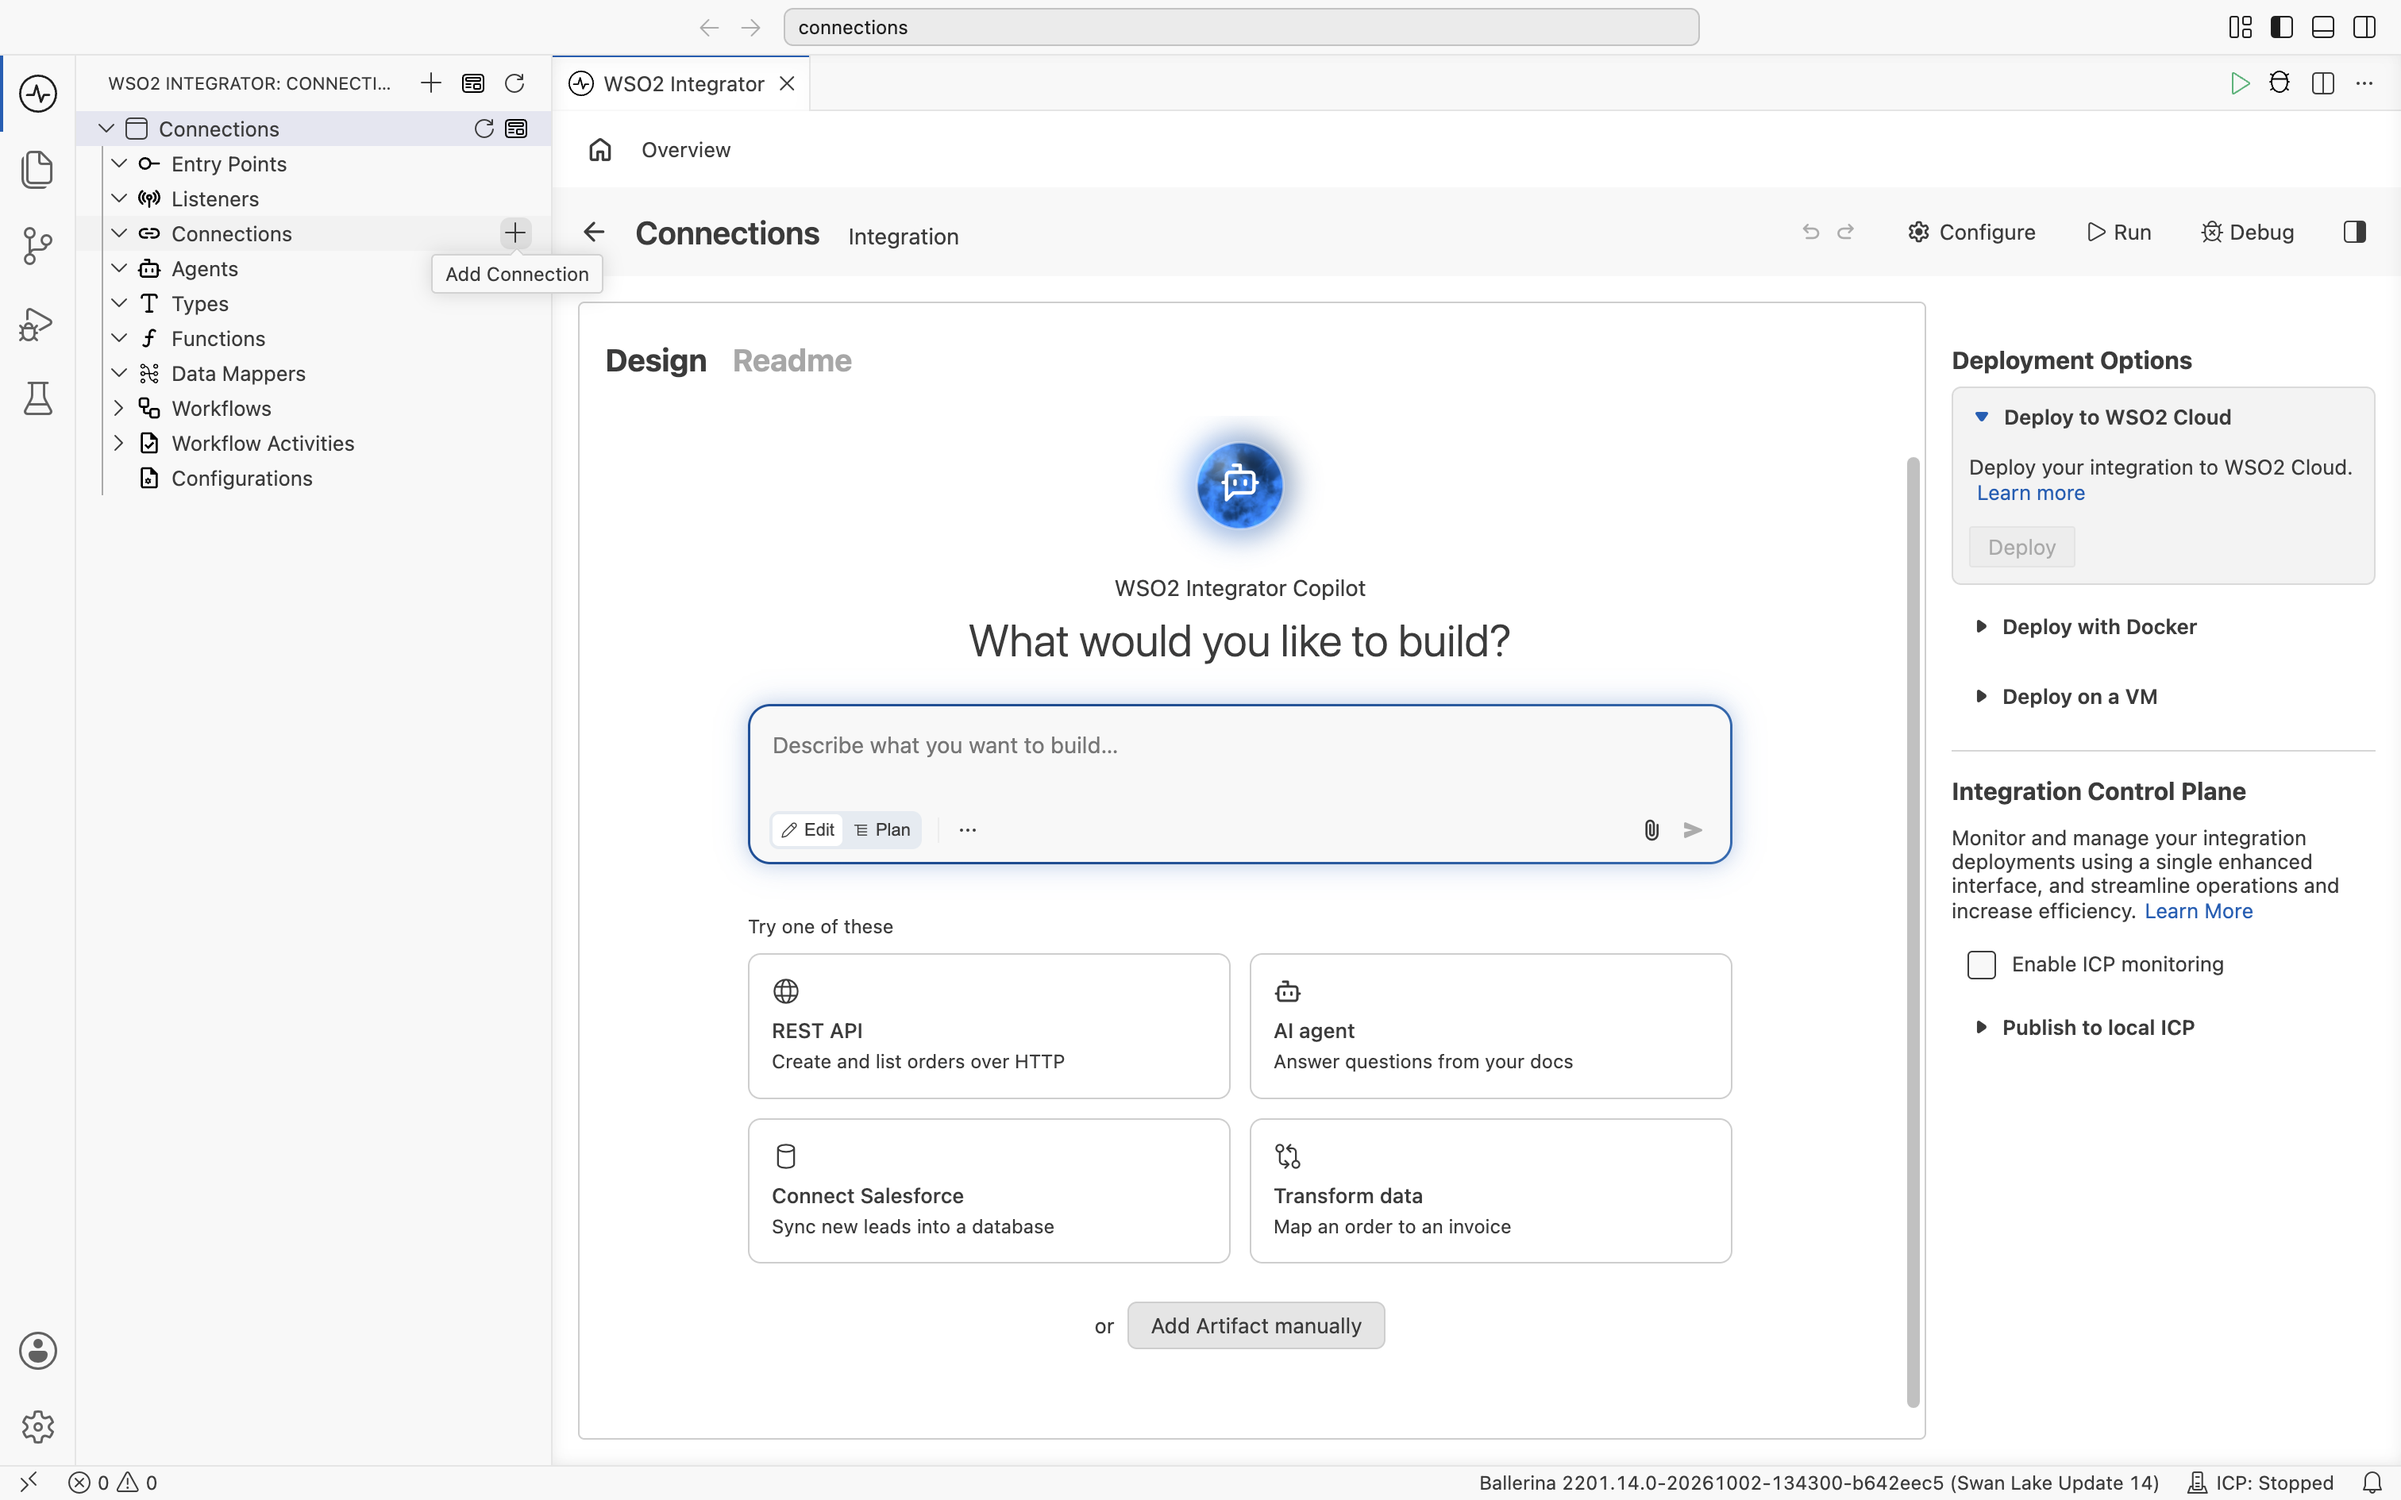
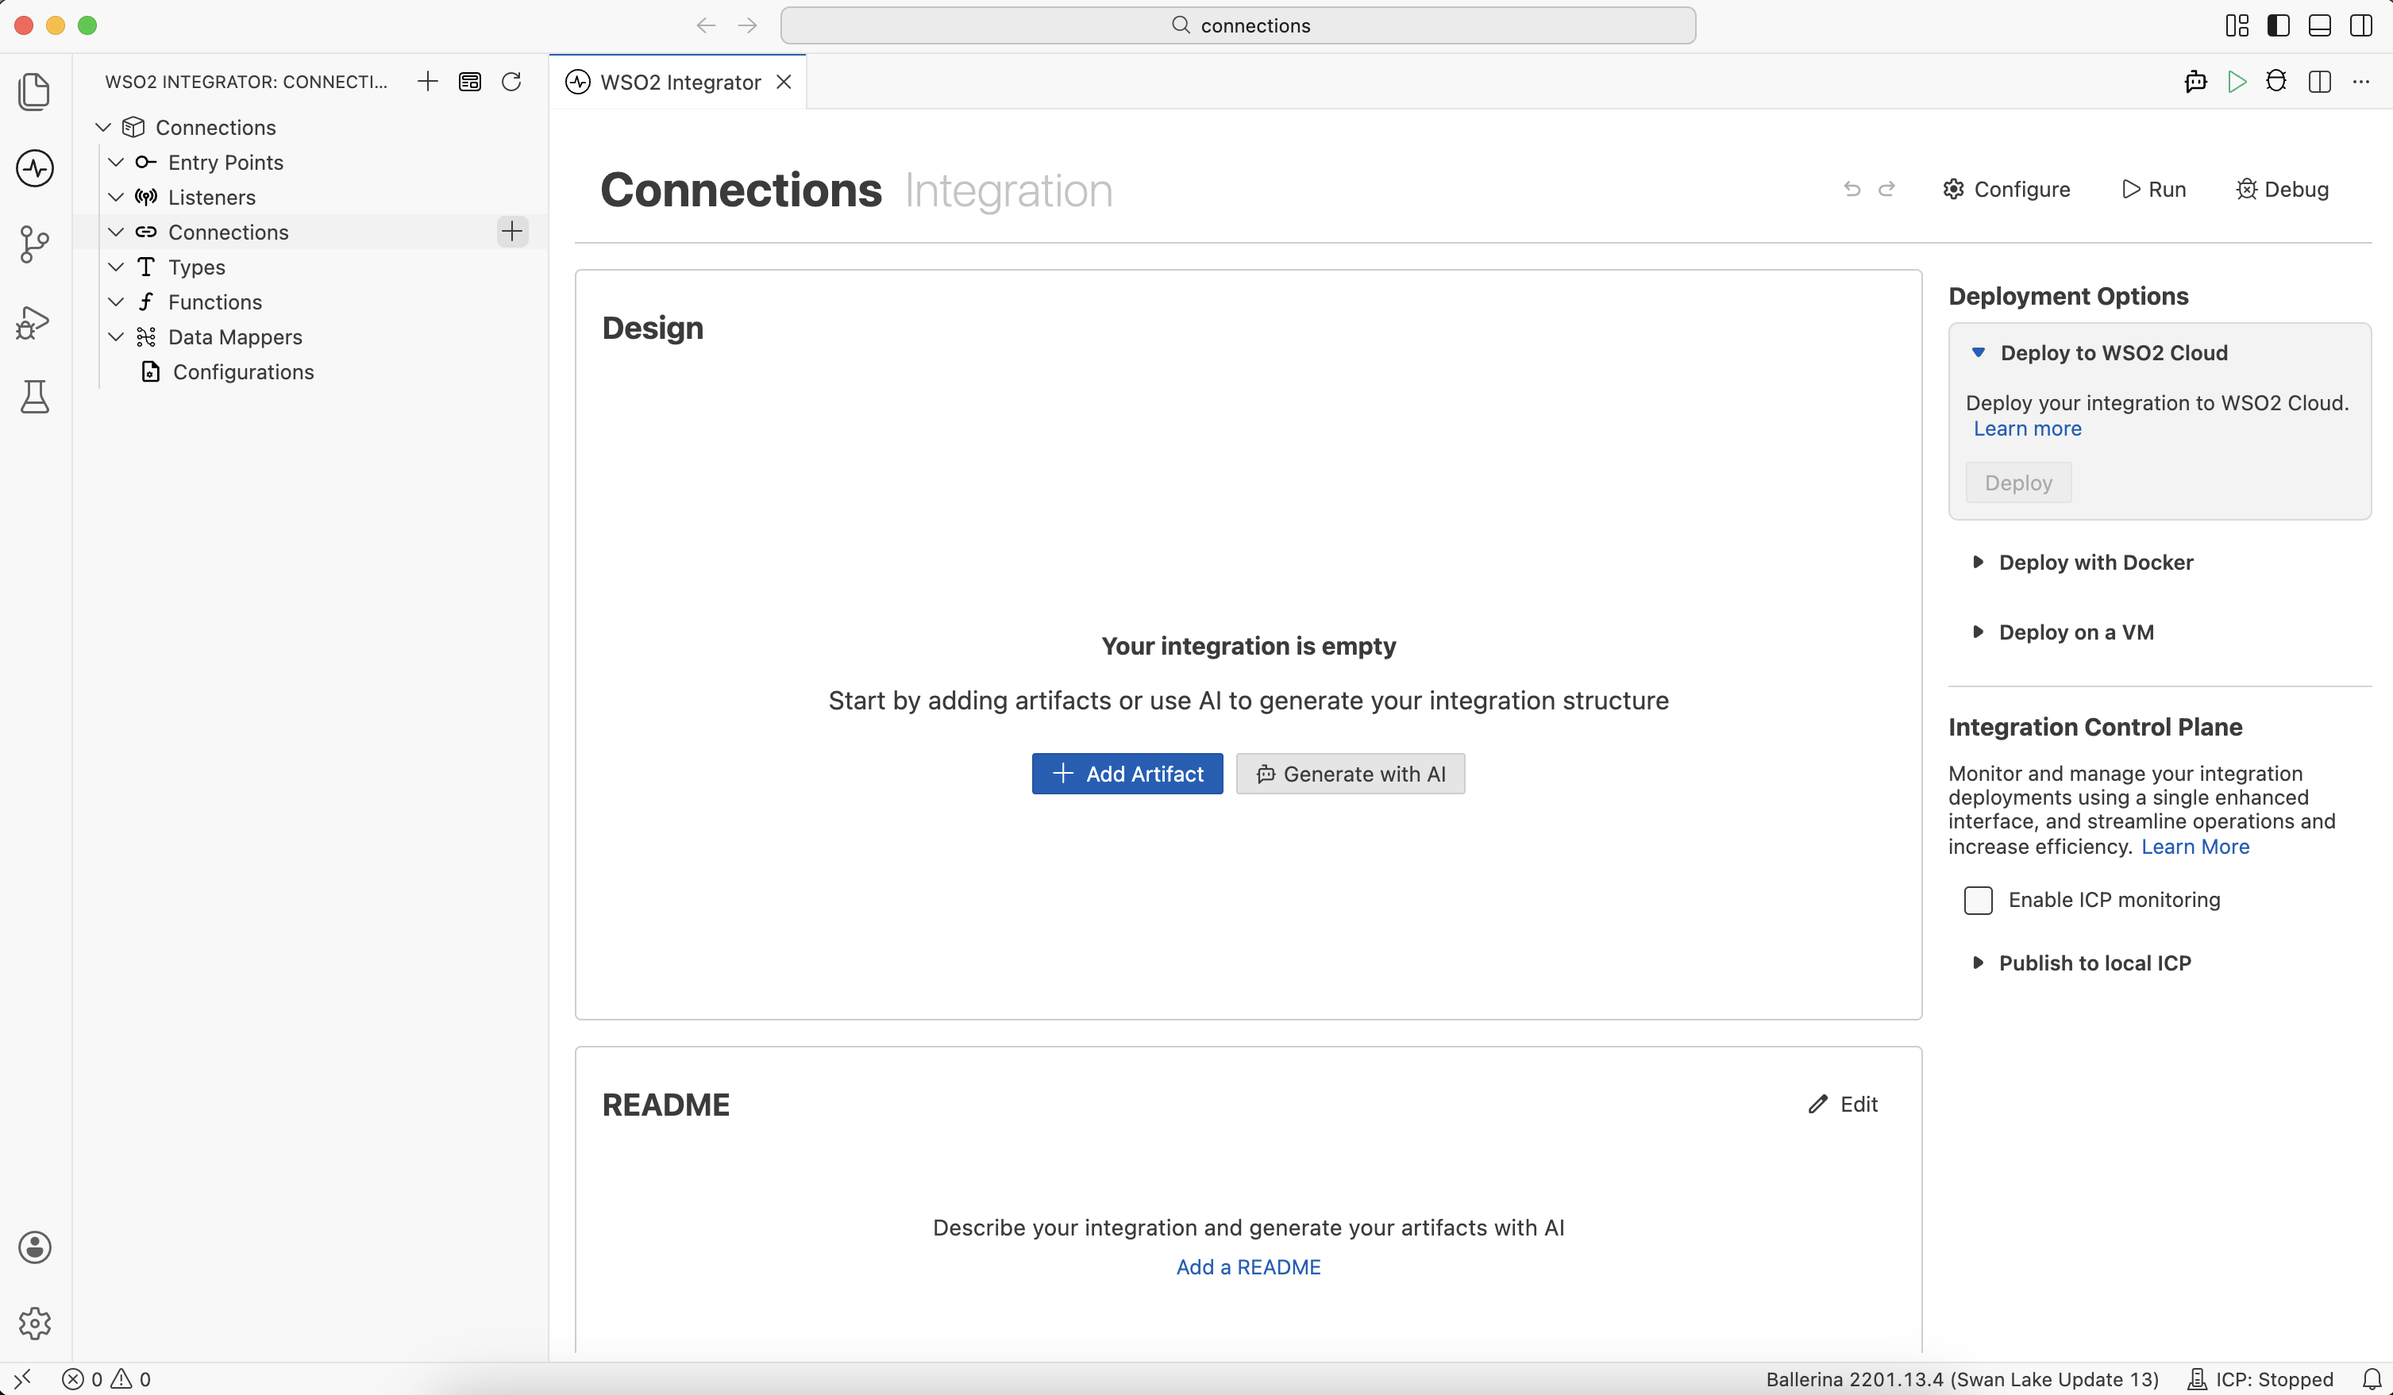
Keep 5.0.0 Connections screenshot and add 5.1 version with -v5.1 suffix
Restore the original new-connection-sidebar.png so it remains available
for 5.0.0 docs, add the 5.1.0 screenshot as new-connection-sidebar-v5.1.png,
and point the Connections page at the new file.

diff --git a/en/docs/develop-and-test/integration-artifacts/supportive-artifacts/connections.md b/en/docs/develop-and-test/integration-artifacts/supportive-artifacts/connections.md
@@ -26,8 +26,8 @@ Connection artifacts centralize the configuration for external systems. Define c
    <ThemedImage
        alt="WSO2 Integrator Add connection via sidebar"
        sources={{
-           light: useBaseUrl('/img/develop/integration-artifacts/supporting/connections/new-connection-sidebar.png'),
-           dark: useBaseUrl('/img/develop/integration-artifacts/supporting/connections/new-connection-sidebar.png'),
+           light: useBaseUrl('/img/develop/integration-artifacts/supporting/connections/new-connection-sidebar-v5.1.png'),
+           dark: useBaseUrl('/img/develop/integration-artifacts/supporting/connections/new-connection-sidebar-v5.1.png'),
        }}
    />
 
